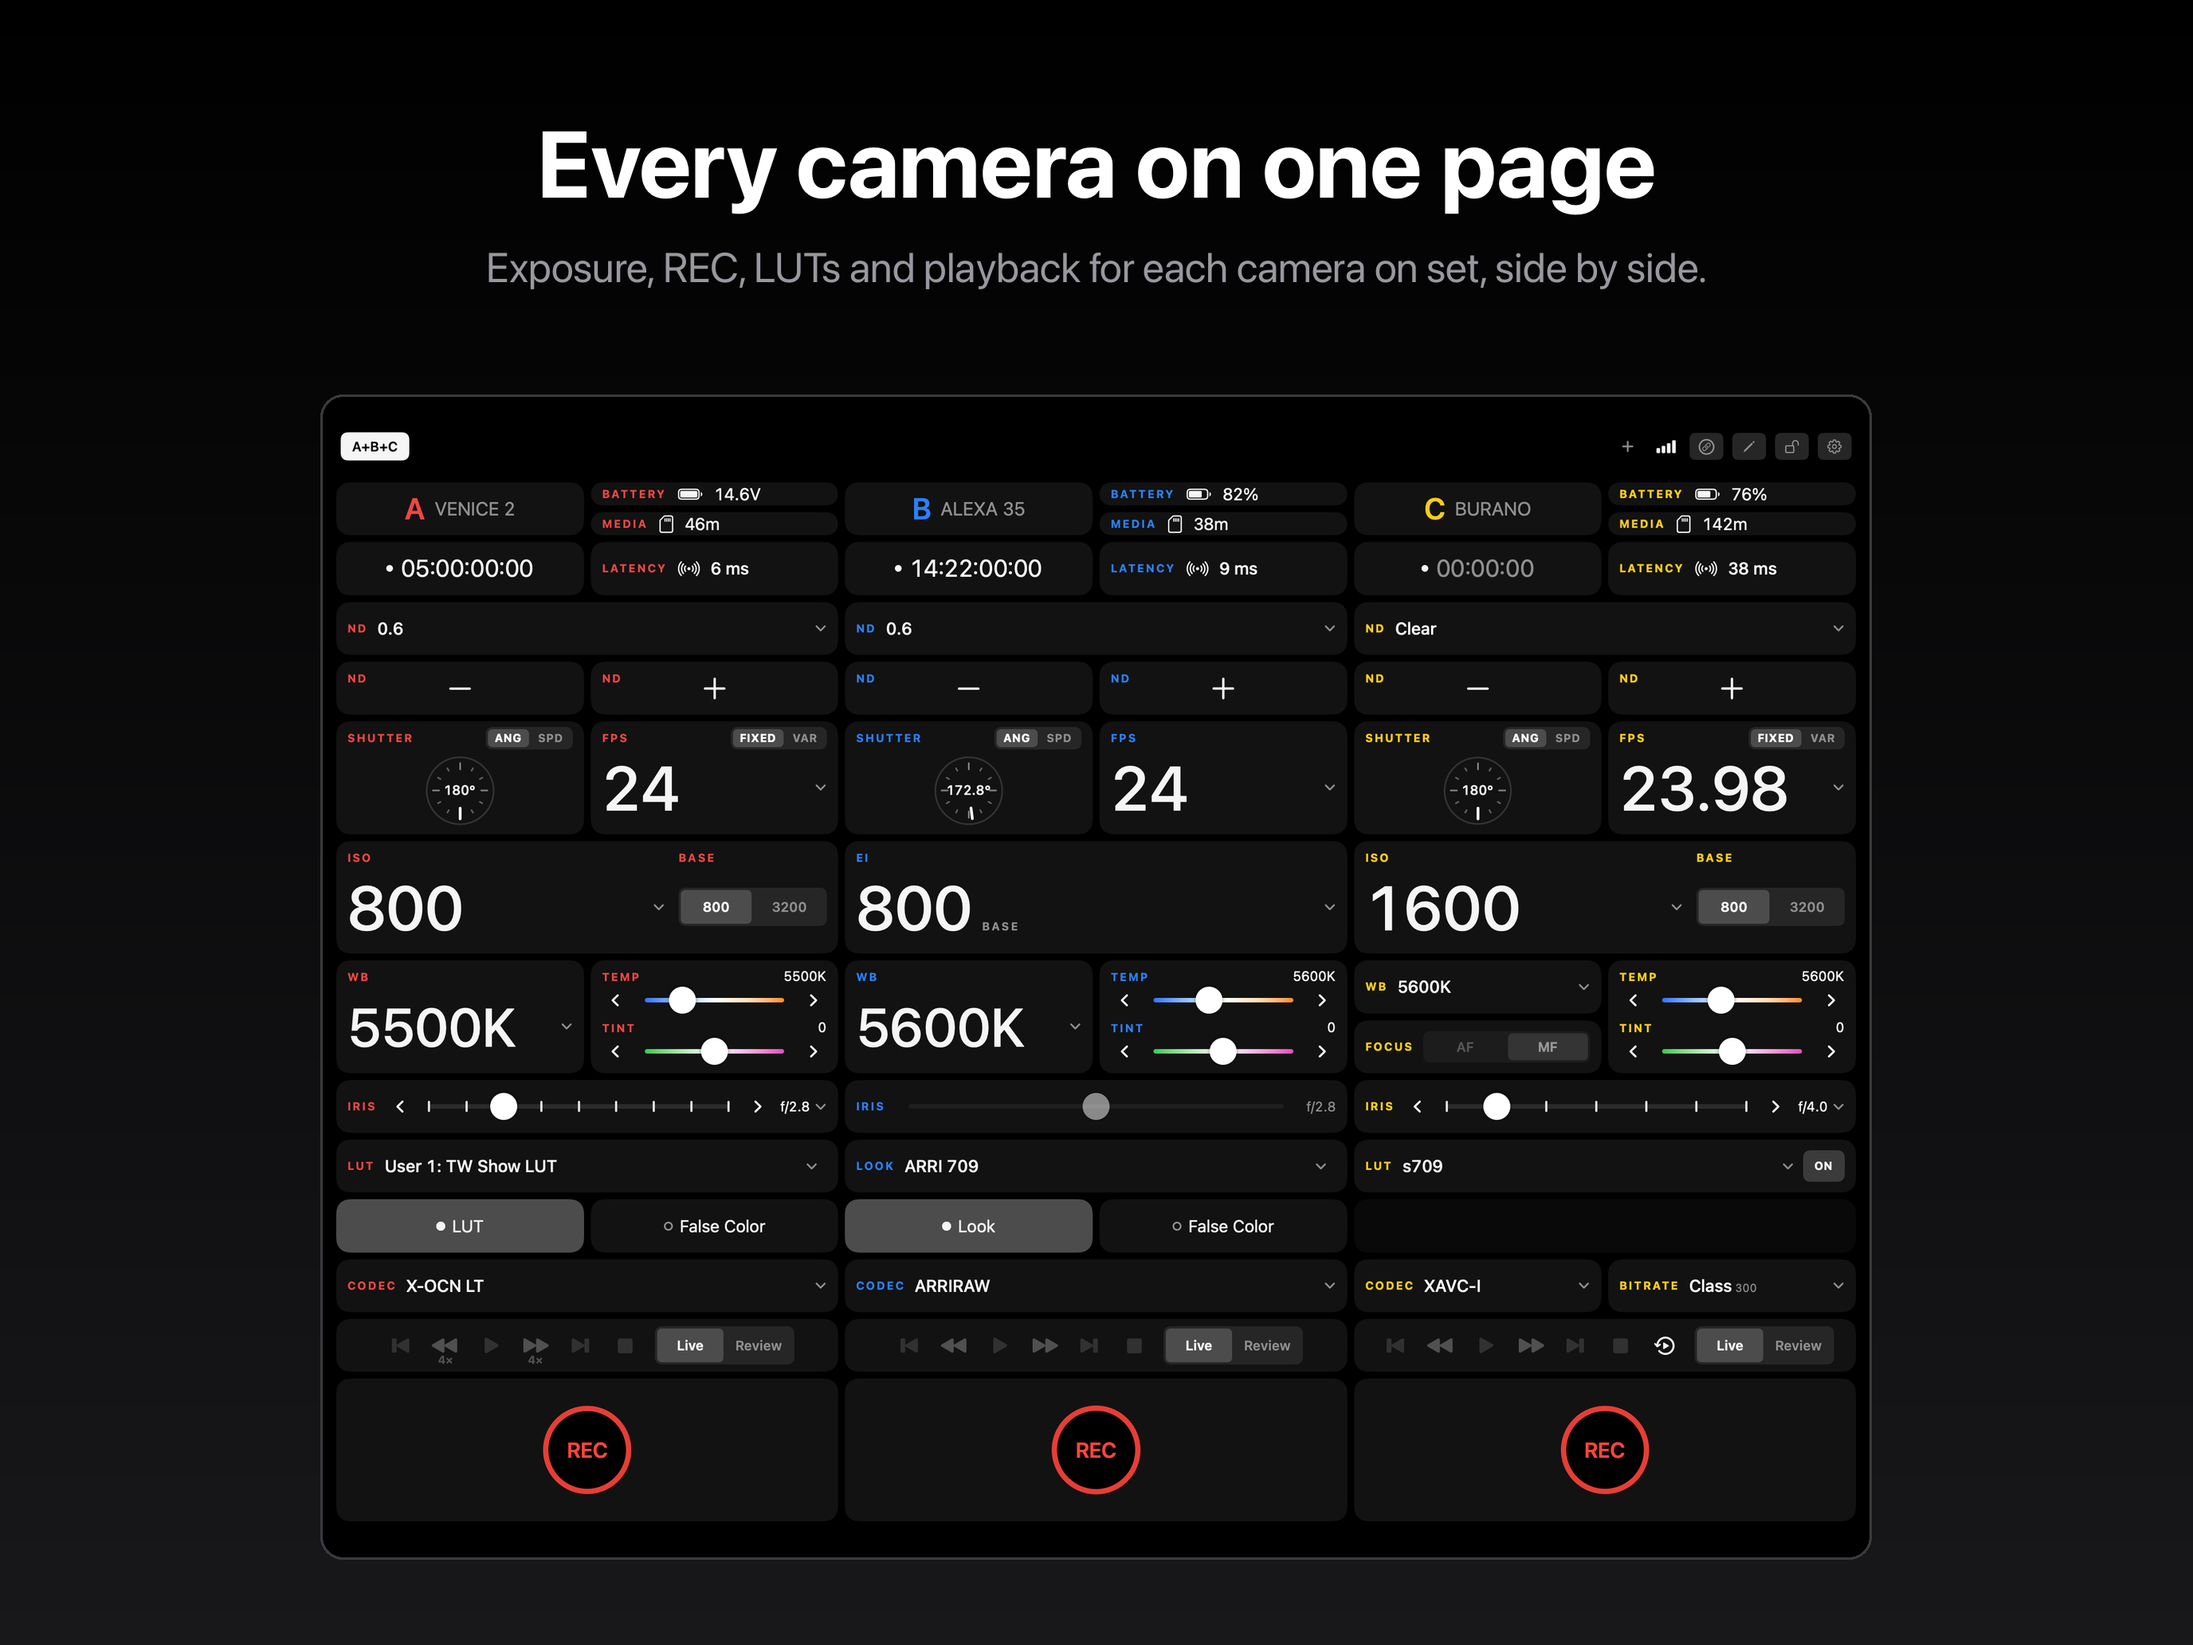
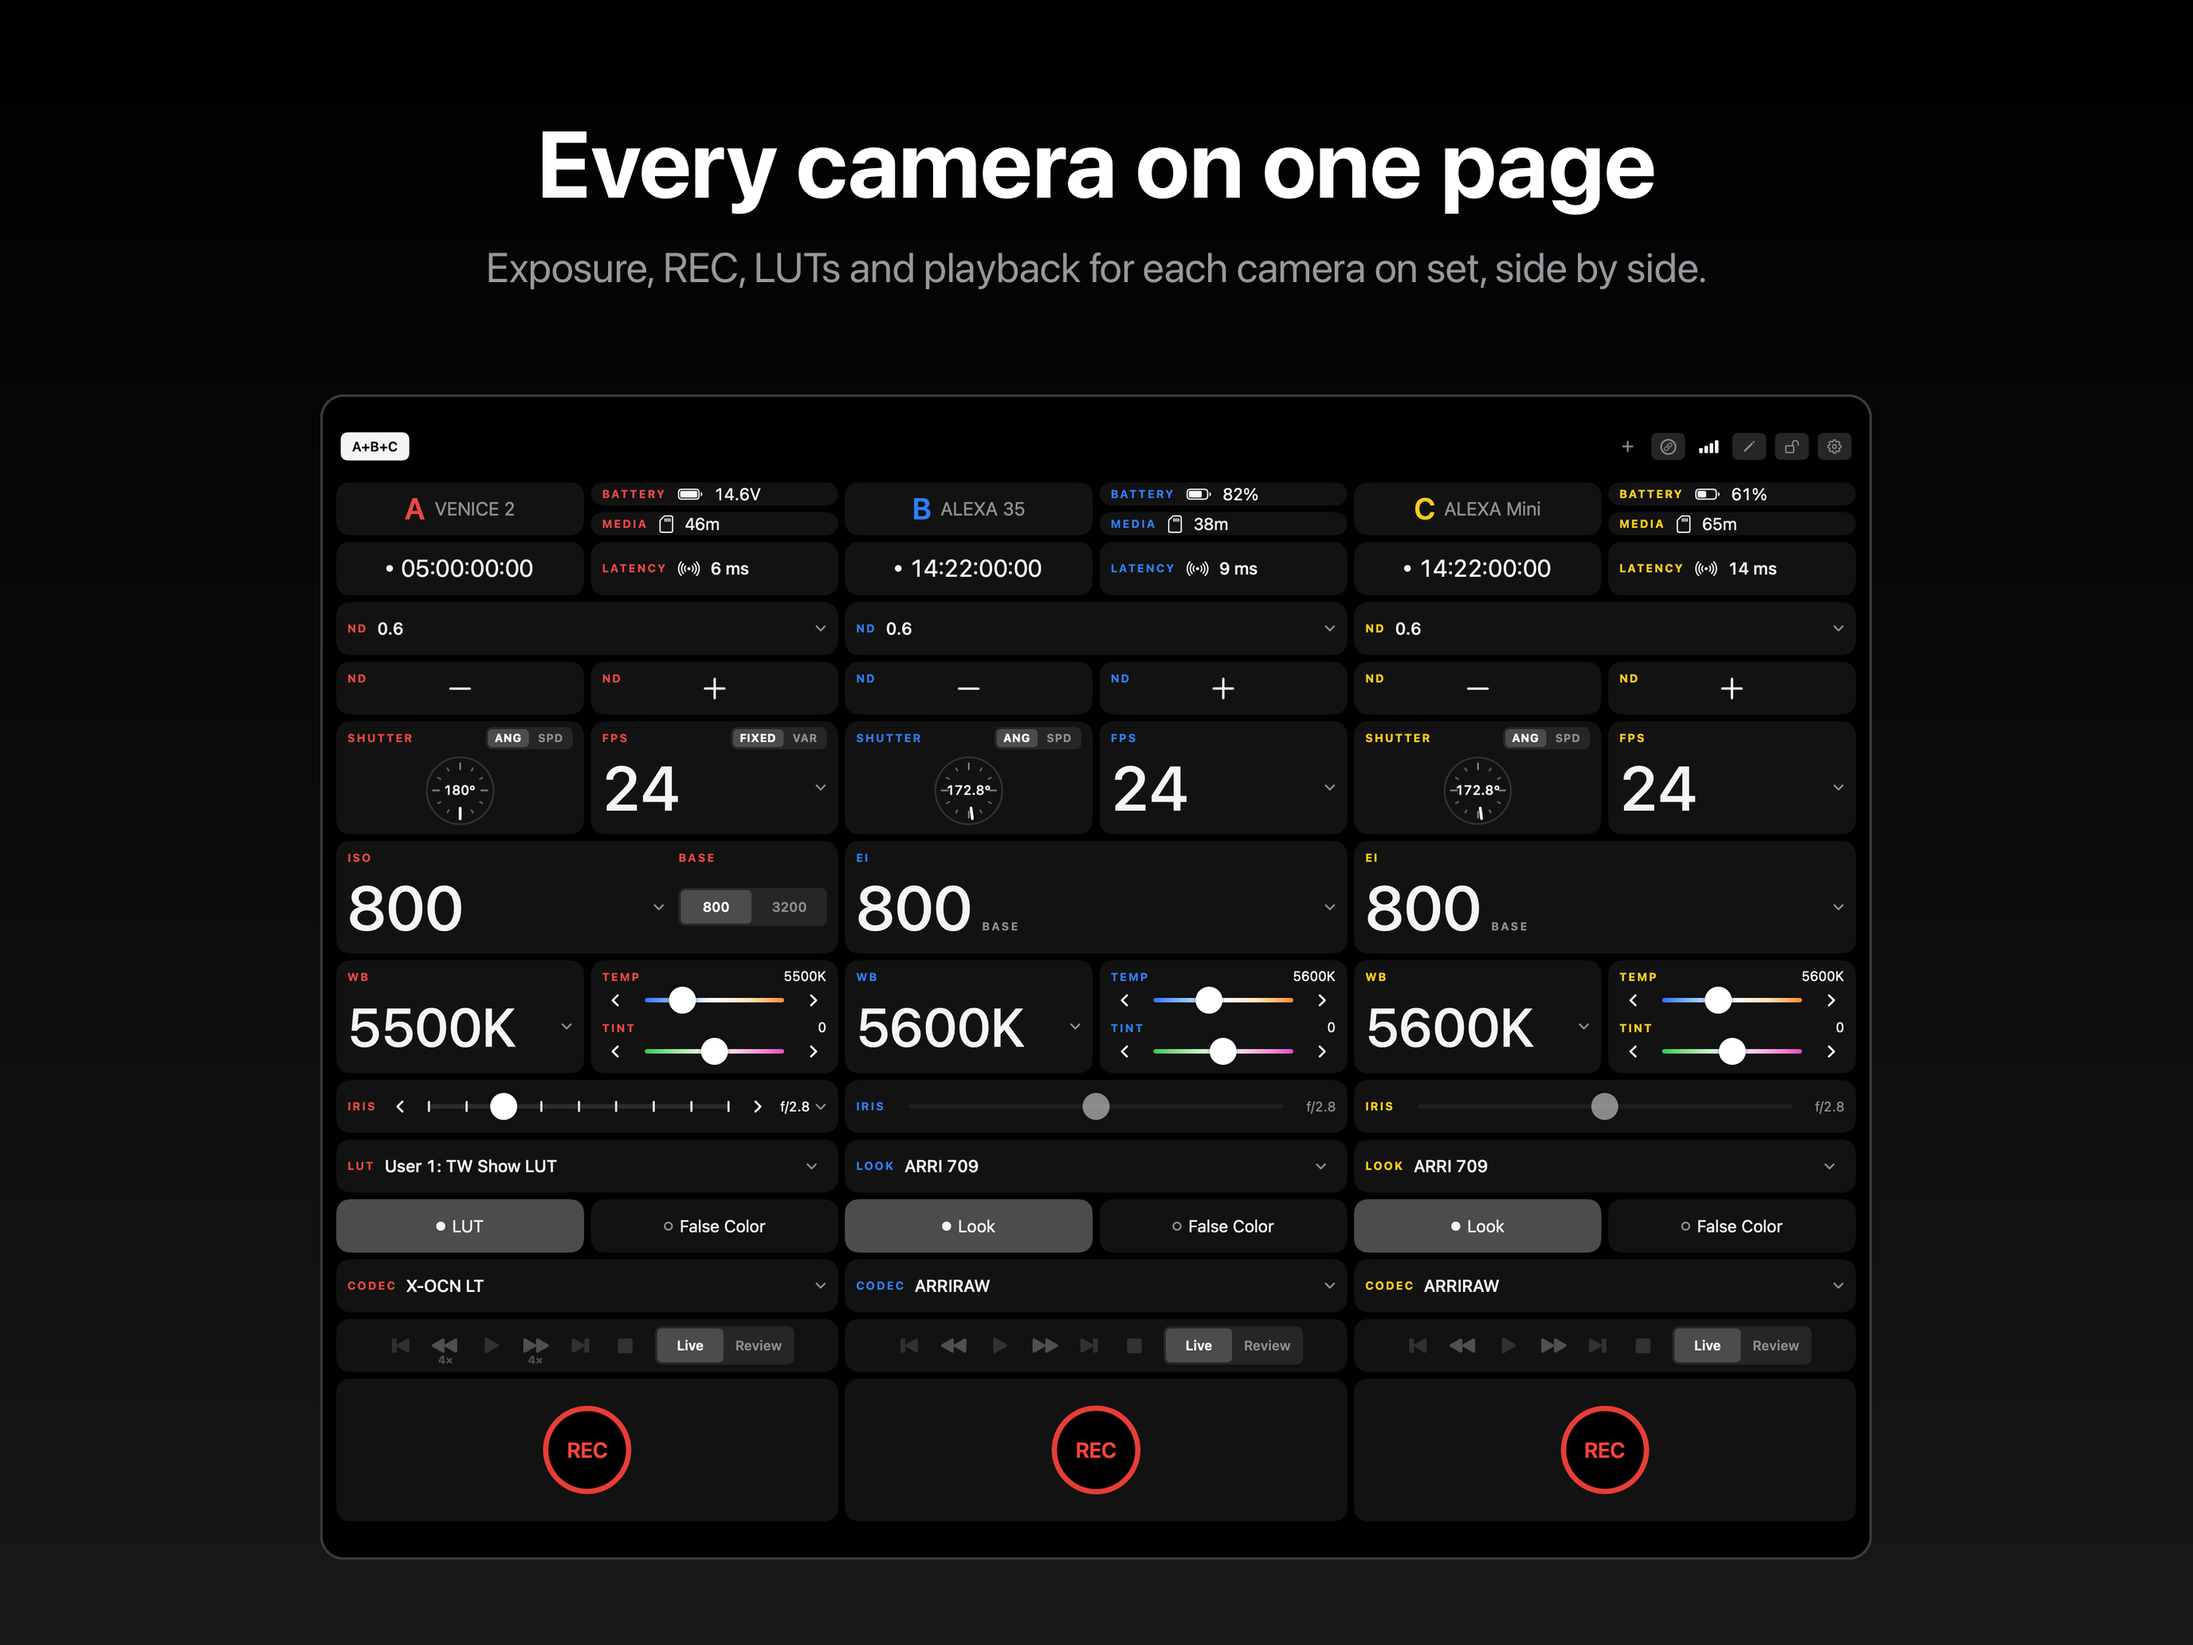
Screenshots with matching layouts side by side; REC without the sales line

diff --git a/Packages/CameraKit/Sources/DashboardSnapshot/DashboardSnapshot.swift b/Packages/CameraKit/Sources/DashboardSnapshot/DashboardSnapshot.swift
@@ -34,6 +34,10 @@ struct DashboardSnapshot {
     @MainActor
     static func main() throws {
         _ = NSApplication.shared
+        // The phone's edit hint shows on the first two edits, counted in the defaults, so whether a snapshot of edit mode
+        // had it depended on how many were drawn before. Off, unless CC_SNAPSHOT_EDIT_HINT=1 asks for it.
+        UserDefaults.standard.set(ProcessInfo.processInfo.environment["CC_SNAPSHOT_EDIT_HINT"] == nil ? 2 : 0,
+                                  forKey: "editHintsShown")
         // CC_SNAPSHOT_STYLE=outline: the look before Ink (ThemeStyle.all has the names).
         if let name = ProcessInfo.processInfo.environment["CC_SNAPSHOT_STYLE"],
            let style = ThemeStyle.all.first(where: { $0.name == name }) {
@@ -287,8 +291,22 @@ struct DashboardSnapshot {
         let rolling = ProcessInfo.processInfo.environment["CC_SNAPSHOT_RECORDING"]?.split(separator: ",").map(String.init) ?? []
         let offline = ProcessInfo.processInfo.environment["CC_SNAPSHOT_OFFLINE"]?.split(separator: ",").map(String.init) ?? []
         var states: [UUID: CameraState] = [:]
+        // A second camera of a family already on the page (two VENICEs, an ALEXA Mini beside an ALEXA 35) gets its own
+        // battery, card and link, as a second body on a set would: the family's demo state is one, so they'd read as
+        // one camera drawn twice.
+        var repeats: [String: Int] = [:]
         for camera in cameras {
-            var state = MockCameraBackend.sampleState(body: camera.demoBody ?? .fx3, label: camera.slot.label)
+            let body = camera.demoBody ?? .fx3
+            var state = MockCameraBackend.sampleState(body: body, label: camera.slot.label)
+            let family = [MockBody.venice, .venice2].contains(body) ? "venice" : body.isArri ? "arri" : body.rawValue
+            let earlier = repeats[family, default: 0]
+            repeats[family] = earlier + 1
+            if earlier > 0 {
+                state.batteryPercent = state.batteryPercent.map { max(9, $0 - 21 * earlier) }
+                state.batteryVolts = state.batteryVolts.map { $0 - 0.6 * Double(earlier) }
+                state.mediaRemainingMinutes = state.mediaRemainingMinutes.map { $0 + 27 * earlier }
+                state.latencyMilliseconds = state.latencyMilliseconds.map { $0 + 5 * earlier }
+            }
             if rolling.contains(camera.slot.label) {
                 state.recording = RecordingControl(state: .recording)
                 state.takeStartedAt = Date().addingTimeInterval(-94)

diff --git a/scripts/screenshots.py b/scripts/screenshots.py
@@ -33,13 +33,15 @@ DEVICES = {
 }
 
 # name, headline, line under it, snapshot settings (CC_SNAPSHOT_<key>), mode (window or edit).
+# Cameras side by side have the same layout: bodies of one family, or a VENICE beside ALEXAs, whose blocks and columns
+# line up. A BURANO or an FX6 beside either leaves rows that don't match.
 IPAD = [
     ("cameras", "Every camera on one page",
      "Exposure, REC, LUTs and playback for each camera on set, side by side.",
-     dict(BODIES="venice2,alexa35,burano"), "window"),
-    ("rec", "REC you can trust",
-     "A tile says it's rolling only once the camera does, and REC can link across cameras.",
-     dict(BODIES="venice2,fx6", RECORDING="A,B"), "window"),
+     dict(BODIES="venice2,alexa35,alexaMini"), "window"),
+    ("rec", "Rolling when the camera is",
+     "Tiles shows rolling once the camera confirms it, and linked cameras roll together.",
+     dict(BODIES="fx6,fx6", RECORDING="A,B"), "window"),
     ("layout", "Laid out your way",
      "Drag, resize and add tiles. Portrait and landscape keep their own layouts.",
      dict(BODIES="venice2"), "edit"),
@@ -48,14 +50,14 @@ IPAD = [
      dict(PYXIS="1"), "window"),
     ("links", "Made for long links",
      "Latency on every page, the Wi-Fi HaLow link's signal, and cameras that reconnect on their own.",
-     dict(BODIES="burano,fx6", HALOW="1", ADD="haLow"), "window"),
+     dict(BODIES="venice2,venice2", HALOW="1"), "window"),   # the VENICE block has HaLow under latency
 ]
 IPHONE = [
     ("camera", "The whole camera in one hand",
      "ISO, shutter, white balance, ND, LUT and REC, sized for a thumb.",
      dict(BODIES="fx3"), "window"),
-    ("rec", "REC you can trust",
-     "Rolling only once the camera says so.",
+    ("rec", "Rolling when the camera is",
+     "Tiles shows rolling once the camera confirms it, not when you tap.",
      dict(BODIES="fx6", RECORDING="A"), "window"),
     ("layout", "Laid out your way",
      "Drag, resize and add tiles, for each camera.",
@@ -64,10 +66,10 @@ IPHONE = [
 MAC = [
     ("cameras", "Every camera on one page",
      "Exposure, REC, LUTs and playback for each camera, in a window beside your monitor.",
-     dict(BODIES="venice2,alexa35,burano"), "window"),
-    ("rec", "REC you can trust",
-     "A tile says it's rolling only once the camera does, and REC can link across cameras.",
-     dict(BODIES="burano,fx6,fx3", RECORDING="A,B,C"), "window"),
+     dict(BODIES="venice2,alexa35,alexaMini"), "window"),
+    ("rec", "Rolling when the camera is",
+     "Tiles shows rolling once the camera confirms it, and linked cameras roll together.",
+     dict(BODIES="fx6,fx6,fx6", RECORDING="A,B,C"), "window"),
     ("layout", "Laid out your way",
      "Drag, resize and add tiles. Every page keeps its own layout.",
      dict(BODIES="venice2"), "edit"),
@@ -76,7 +78,7 @@ SHOTS = {"ipad": IPAD, "iphone-6.9": IPHONE, "iphone-6.3": IPHONE, "mac": MAC}
 
 # The README's: file, device, snapshot settings, mode, width in pixels.
 README = [
-    ("ipad-two-cameras.jpg", "ipad", dict(BODIES="venice2,fx6"), "window", 1800),
+    ("ipad-two-cameras.jpg", "ipad", dict(BODIES="venice2,venice2"), "window", 1800),
     ("iphone-fx3.jpg", "iphone-6.3", dict(BODIES="fx3"), "window", 598),
     ("iphone-two-cameras.jpg", "iphone-6.3", dict(BODIES="fx3,fx6"), "window", 598),
     ("ipad-pyxis.jpg", "ipad", dict(PYXIS="1"), "window", 1800),

diff --git a/assets/app-store/listing.md b/assets/app-store/listing.md
@@ -20,7 +20,7 @@ rec,exposure,iso,shutter,white balance,nd,lut,false color,timecode,dit,focus pul
 > EVERY CAMERA ON ONE PAGE
 > • Exposure: ISO or EI with the camera's base, shutter angle or speed, white balance presets with Kelvin and tint,
 > iris and ND.
-> • REC you can trust: a tile shows the camera rolling only once the camera says it is. Link REC, shutter, frame rate
+> • REC: a tile shows the camera rolling only once the camera says it is. Link REC, shutter, frame rate
 > and white balance across cameras.
 > • Monitoring: which LUT and whether it's on, false color, zebra, focus assist, frame guides and clean feed, output
 > by output where the camera has outputs.

diff --git a/README.md b/README.md
@@ -59,7 +59,7 @@ offers, and how each was checked, is in `docs/` (one file per camera family).
 
 - **Exposure:** ISO or EI with the camera's base, shutter angle or speed, white balance presets with Kelvin and tint,
   iris and ND.
-- **REC you can trust:** a tile only says recording once the camera does.
+- **REC:** a tile only says recording once the camera does.
 - **Monitoring:** LUT on and off and which LUT, false color, zebra, focus assist, frame guides and clean feed; on a
   Blackmagic camera, output by output. LUT import on Sony cameras.
 - **Playback** with the same Live | Review switch on every camera.
